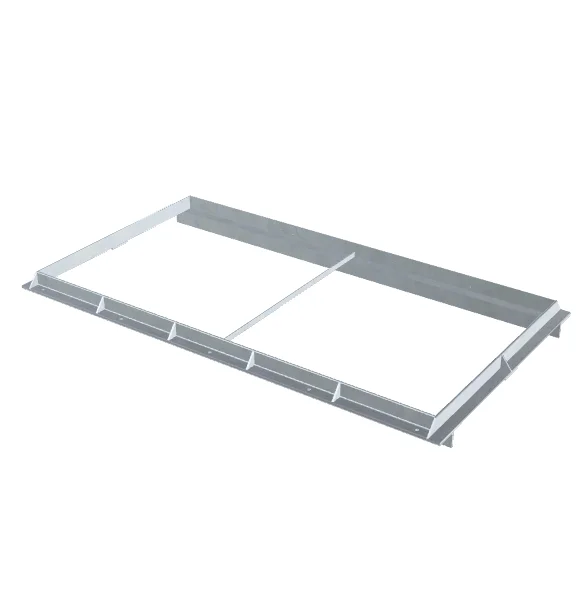
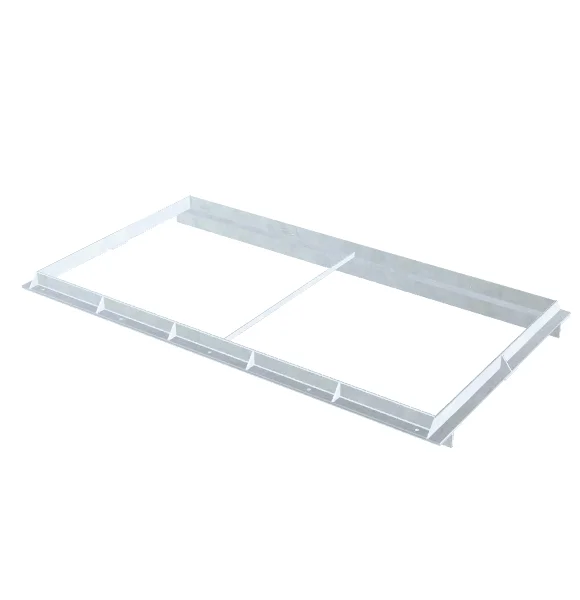
feat: Final lighting (exposure 3.25, environment 2.45), original GLB materials, remove tuner

diff --git a/catalogue/catalogue.js b/catalogue/catalogue.js
@@ -93,12 +93,9 @@ function createCard(p) {
   mv.setAttribute('camera-controls', '');
   mv.setAttribute('touch-action', 'none'); // one finger rotates freely in every direction
   mv.setAttribute('environment-image', ENV_URL); // studio HDRI: gives the cast iron real depth and highlights
-  mv.setAttribute('exposure', '1.8'); // same lighting as the poster thumbnails
+  mv.setAttribute('exposure', '3.25'); // same lighting as the poster thumbnails
+  mv.setAttribute('environment-intensity', '2.45');
   mv.setAttribute('tone-mapping', 'neutral');
-  // The painted cast-iron material is a touch too matte under studio light: a bit more gloss gives deep blacks and real highlights
-  mv.addEventListener('load', () => {
-    for (const m of mv.model?.materials ?? []) if (/Painted/i.test(m.name)) m.pbrMetallicRoughness.setRoughnessFactor(0.6);
-  });
   mv.setAttribute('camera-orbit', p.orbit ?? '35deg 62deg auto'); // per product: the text cast on some models reads best from the front
   mv.setAttribute('min-camera-orbit', 'auto 0deg auto'); // allow looking from above and below
   mv.setAttribute('max-camera-orbit', 'auto 180deg auto');

diff --git a/gr/index.html b/gr/index.html
@@ -29,7 +29,8 @@
             camera-controls
             touch-action="none"
             environment-image="/hdri/studio_small_08_1k.hdr"
-            exposure="1.8"
+            exposure="3.25"
+            environment-intensity="2.45"
             tone-mapping="neutral"
             camera-target="auto auto auto"
             camera-orbit="0deg 75deg auto"

diff --git a/tree-grate/index.html b/tree-grate/index.html
@@ -30,7 +30,8 @@
             touch-action="none"
             auto-rotate
             environment-image="/hdri/studio_small_08_1k.hdr"
-            exposure="1.8"
+            exposure="3.25"
+            environment-intensity="2.45"
             tone-mapping="neutral"
             camera-target="auto auto auto"
             camera-orbit="0deg 75deg auto"

diff --git a/index.html b/index.html
@@ -30,7 +30,8 @@
             touch-action="none"
             auto-rotate
             environment-image="/hdri/studio_small_08_1k.hdr"
-            exposure="1.8"
+            exposure="3.25"
+            environment-intensity="2.45"
             tone-mapping="neutral"
             camera-target="0m 0.3m 0m"
             camera-orbit="0deg 75deg 2m"
